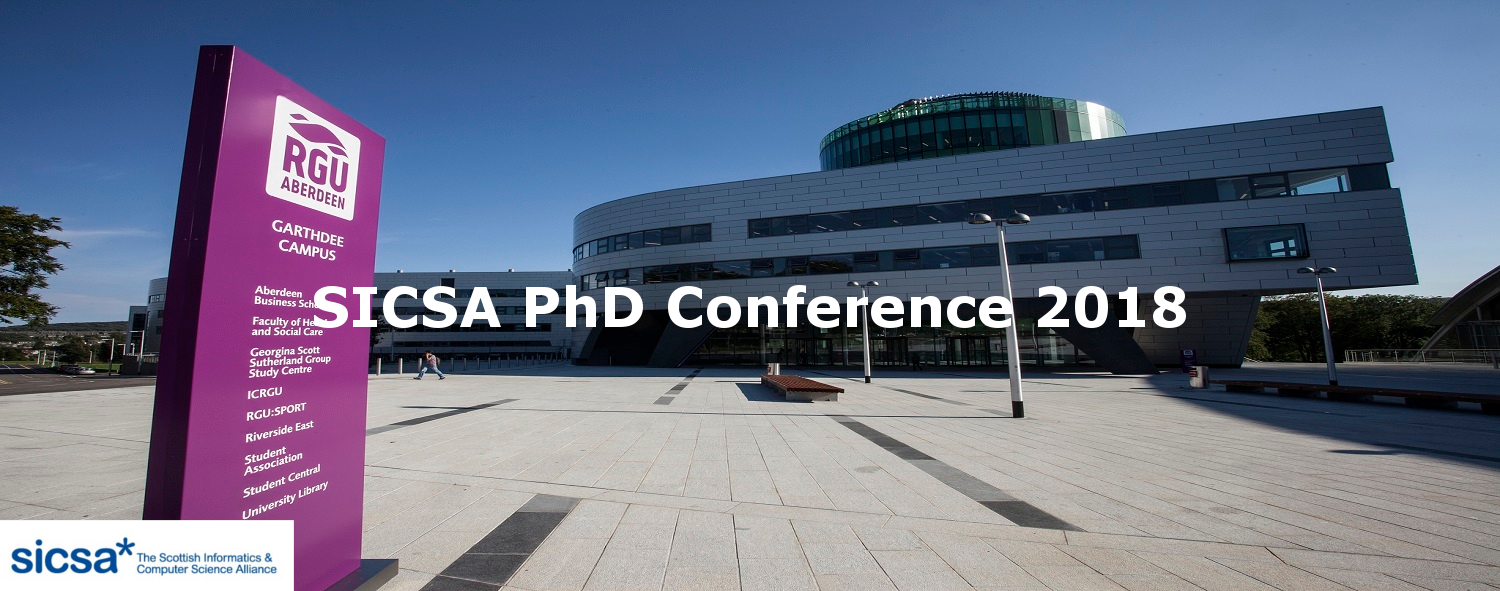
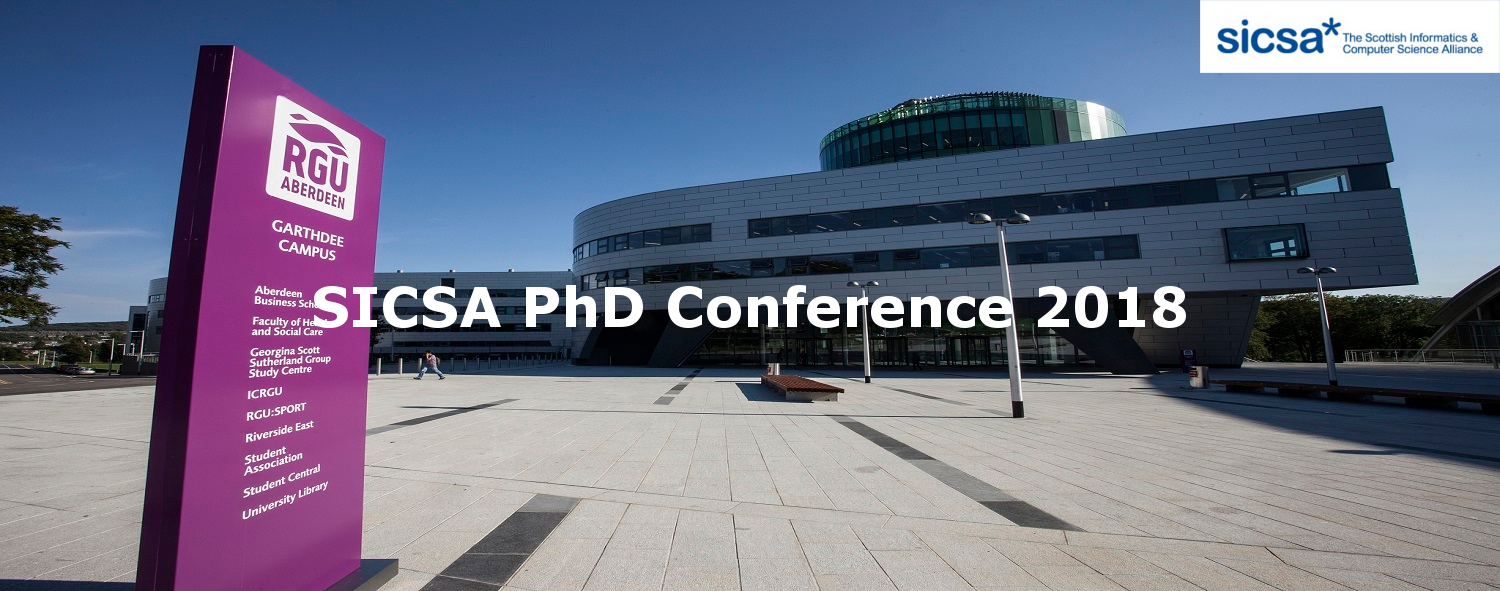
Some minor modifications to the program, committee, index and social events page, some requested some I noticed. Also modifying the header image again by request.

Changed region(s): [[0.0, 0.8528, 0.2147, 1.0], [0.7973, 0.0, 1.0, 0.1218]]

diff --git a/index.html b/index.html
@@ -65,7 +65,7 @@
 			The <a class="third" href="http://www.sicsa.ac.uk/">Scottish Informatics & Computer Science Alliance (SICSA) </a><i class="icon-external-link"></i> PhD Conference has been an annual event for almost a decade. It marks a time where PhD students attending universities all around Scotland get together for a couple of days. During the event students get to attend interesting workshops, talks and social events. Whilst having a chance to showcase their work through the annual student <a class="third" href="poster-competition.html">poster competition</a>. 
 			</p>
 			<p>			
-			The 2018 SICSA PhD Conference shall be held at Aberdeen's <a class="third" href="http://www.rgu.ac.uk/">Robert Gordon University </a><i class="icon-external-link"></i> on the 27th and 28th of June.
+			The 2018 SICSA PhD Conference will be held at Aberdeen's <a class="third" href="http://www.rgu.ac.uk/">Robert Gordon University </a><i class="icon-external-link"></i> on the 28th and 29th of June.
 			</p>
 			<p>
 			The event is open to all PhD students in computer science and informatics in Scotland, not just students funded by SICSA. There are no registration fees and accommodation is provided free as the event is fully funded by SICSA. If you wish to attend please visit the <a class="third" href="registration.html">registration</a> page.  

diff --git a/program.html b/program.html
@@ -40,10 +40,10 @@
 			</ul>
 		</li>
 		
-		<li><a href="program.html">Program</a></li>
+		<li  class="active"><a href="program.html">Program</a></li>
 		<li><a href="poster-competition.html">Poster Competition</a></li>
 		<li><a href="sponsors.html">Sponsors</a></li>
-		<li class="active"><a href="committee.html">Committee</a></li>
+		<li><a href="committee.html">Committee</a></li>
       </ul>
       <ul class="nav navbar-nav navbar-right">
         <li><a href="registration.html">Registration</a></li>

diff --git a/social-event.html b/social-event.html
@@ -65,7 +65,7 @@
 		first day of the event. This is intended to encourage collaboration and socialising.
 		In addition, there will be an activity-based social event in Aberdeen city centre.
 		  The activities offer the opportunity to take a break from the classroom-based sessions; 
-		  network with other delegates; and perhaps try an activity you’ve never done before!</p>
+		  network with other delegates; and perhaps try an activity you've never done before!</p>
 
 <hr />
 

diff --git a/committee.html b/committee.html
@@ -66,7 +66,7 @@
 <thead>
 <tr>
 <th>Name</th>
-<th>Instituiton</th>
+<th>Institution</th>
 <th>Role</th>
 </tr>
 <thead>
